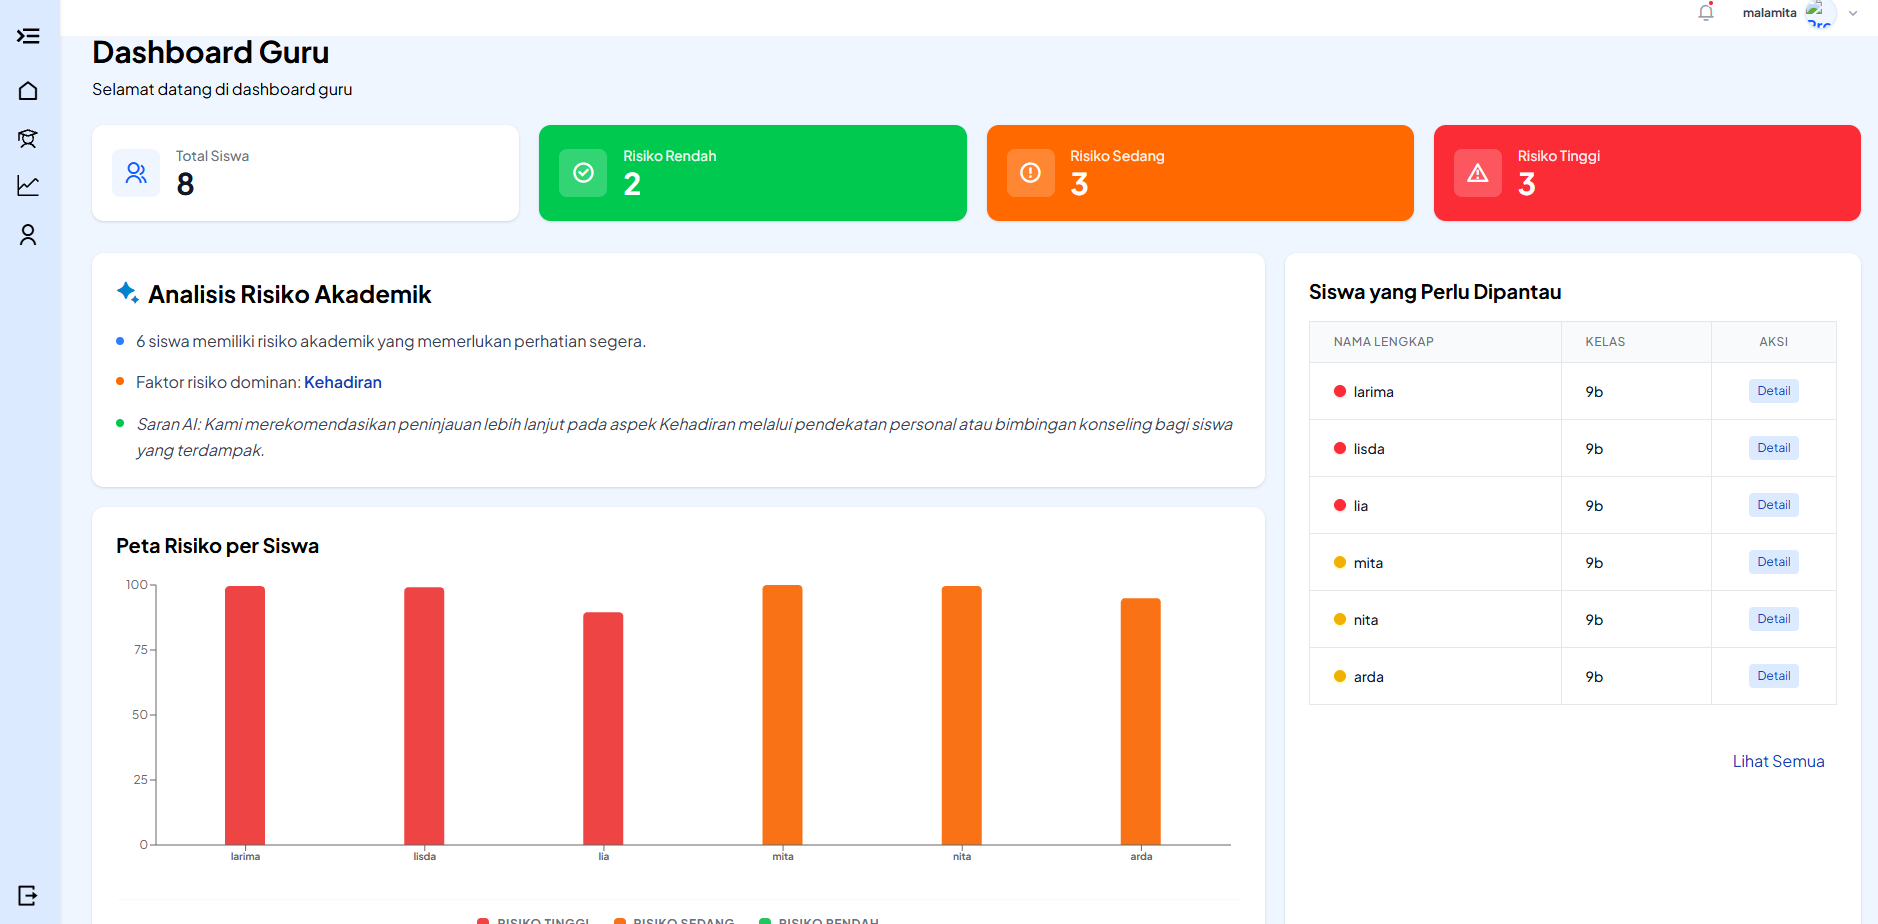
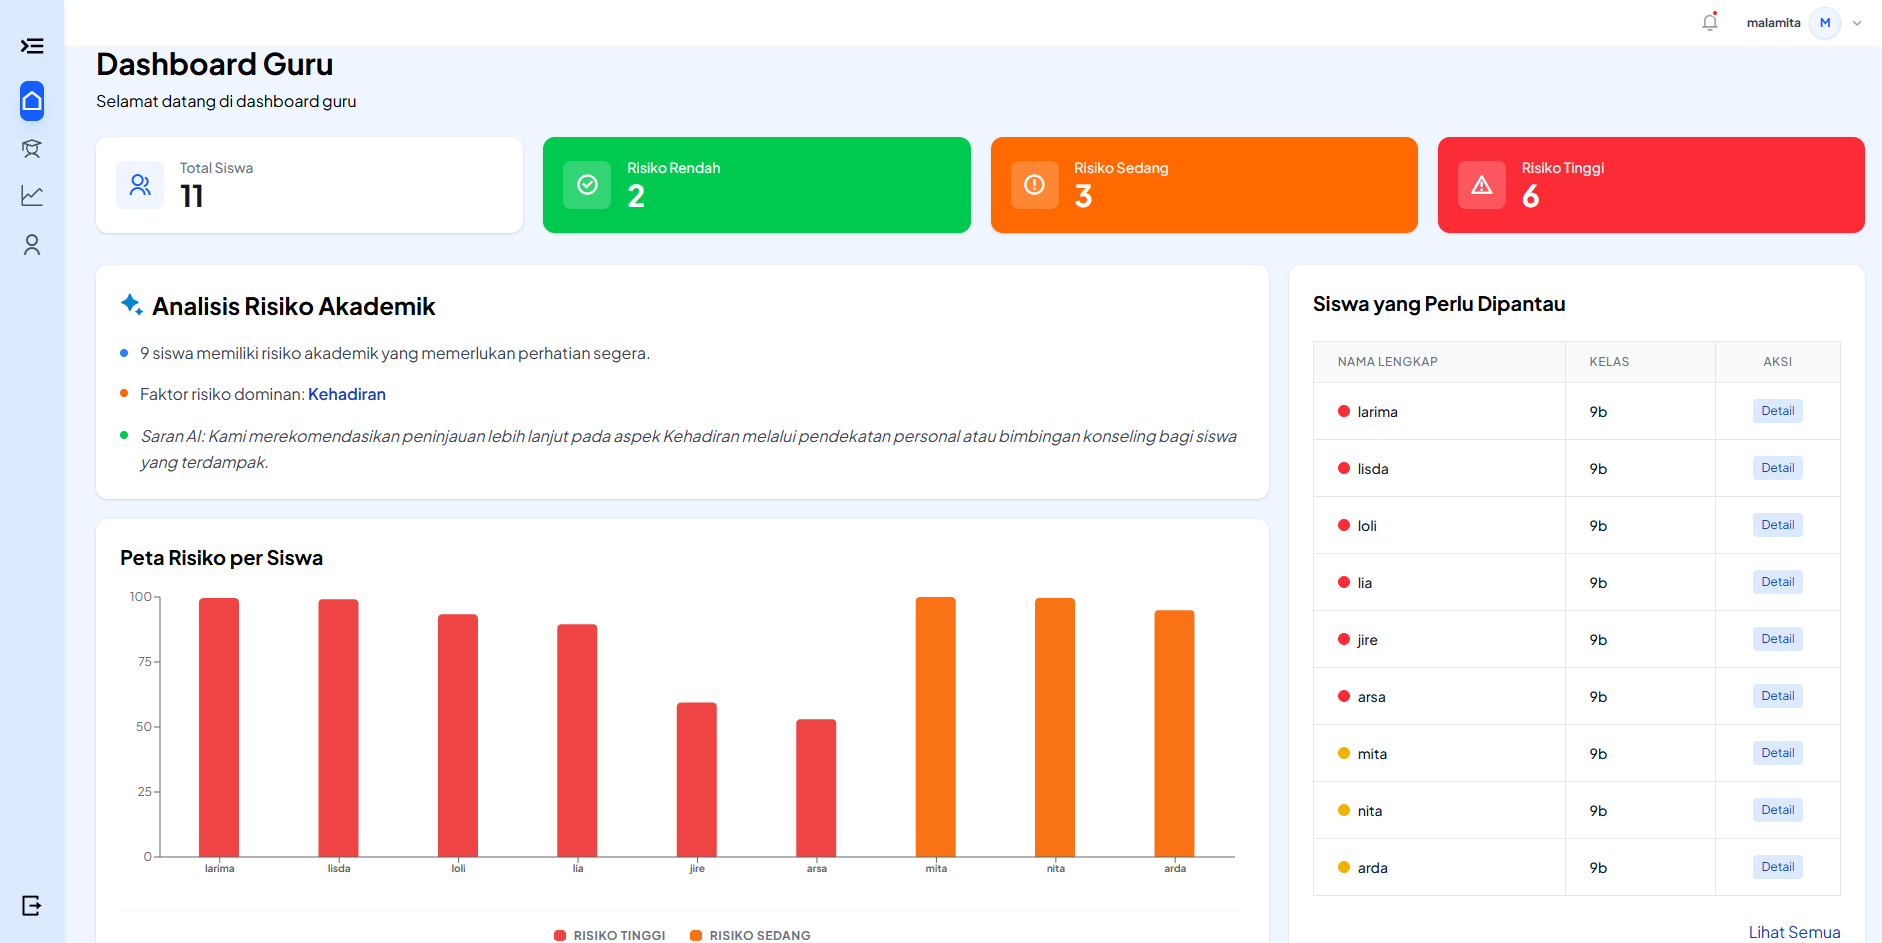
memperbaiki foto dashboard yang kepotong dan memperbaiki judul edupredict

diff --git a/frontend/src/pages/DashboardGuruPage.jsx b/frontend/src/pages/DashboardGuruPage.jsx
@@ -127,7 +127,7 @@ function DashboardGuruPage() {
     return (
         <div className="flex min-h-screen bg-blue-50">
             <Sidebar open={open} setOpen={setOpen} />
-            <div className={`flex-1 transition-all duration-500 ${open ? 'md:ml-64' : 'md:ml-16'} min-h-screen flex flex-col`}>
+            <div className={`flex-1 transition-all duration-500 ${open ? 'md:ml-64' : 'md:ml-16'} min-h-screen flex flex-col bg-blue-50`}>
                 <TopBar />
                 <div className="p-3 sm:p-6 md:p-8 pb-20 md:pb-8">
                 <h1 className="md:block text-3xl font-bold">Dashboard Guru</h1>
@@ -170,21 +170,16 @@ function DashboardGuruPage() {
                         type="tinggi"
                     />
                 </div>
-                <div className="grid grid-cols-1 lg:grid-cols-3 gap-5 mt-8">
-                    <div className="lg:col-span-2 space-y-5">
-                         <InsightAI 
-                            ringkasan={data.ringkasan} 
-                            siswaBerisiko={data.siswa_berisiko} 
-                        />
-                        <GrafikRisiko data={data.tren || []} />
-                    </div>
-                    <div className="lg:col-span-1 h-full flex flex-col min-w-0">
-                        <DaftarSiswa 
-                            className="h-full w-full overflow-x-auto" 
-                            isDashboard={true} 
-                            dataSiswa={data.siswa_berisiko} 
-                        />
-                    </div>
+                <div className="mt-8 space-y-8">
+                    <InsightAI 
+                        ringkasan={data.ringkasan} 
+                        siswaBerisiko={data.siswa_berisiko} 
+                    />
+                    <GrafikRisiko data={data.tren || []} />
+                    <DaftarSiswa 
+                        isDashboard={true} 
+                        dataSiswa={data.siswa_berisiko} 
+                    />
                 </div>
                     </>
                 )}

diff --git a/frontend/src/components/Navbar.jsx b/frontend/src/components/Navbar.jsx
@@ -81,7 +81,7 @@ function Navbar() {
                 <div className="navbar-box flex items-center justify-between py-0">
                     <div className="logo-box flex items-center gap-3 cursor-pointer" onClick={() => scrollTo('beranda')}>
                         <img src={logoEdupredict} alt="logo" className="w-16 h-16 object-contain flex-shrink-0" />
-                        <h1 className="text-2xl font-bold text-blue-900">Edu Predict</h1>
+                        <h1 className="text-2xl font-bold bg-gradient-to-r from-blue-800 to-blue-500 bg-clip-text text-transparent leading-none">EduPredict <span className="text-xl">AI</span></h1>
                     </div>
                     <div className={`Nav-items flex lg:gap-12 gap-8 absolute md:static left-1/2 -translate-x-1/2 md:left-0 md:-translate-x-0 flex-col md:flex-row w-full text-center ${menuActive ? "top-16 opacity-100" : "-top-72 opacity-0"} md:w-auto py-10 md:py-0 transition-all md:transition-none bg-blue-100 md:opacity-100 items-center`}>
                         <button onClick={() => scrollTo('beranda')} className={getNavClass('beranda')}>Beranda</button>

diff --git a/frontend/src/components/Sidebar.jsx b/frontend/src/components/Sidebar.jsx
@@ -37,7 +37,7 @@ function Sidebar({ open, setOpen }) {
             <div className={`flex items-center mt-8 ${open ? 'justify-between px-5' : 'justify-center'}`}>
                 <div className={`flex items-center gap-2 transition-all duration-300 ${!open && 'hidden'}`}>
                     <img src={logoEdupredict} alt="logo" className="w-12 h-12 object-contain flex-shrink-0" />
-                    <h1 className="text-2xl font-bold text-blue-900">EduPredict</h1>
+                    <h1 className="text-base font-bold bg-gradient-to-r from-blue-800 to-blue-500 bg-clip-text text-transparent leading-none">EduPredict <span className="text-sm">AI</span></h1>
                 </div>
                 <MdMenuOpen size={30} className={`cursor-pointer transition-transform duration-300 ${!open && 'rotate-180'}`} onClick={() => setOpen(!open)}/>
             </div>

diff --git a/frontend/src/components/LoginSiswaInput.jsx b/frontend/src/components/LoginSiswaInput.jsx
@@ -8,7 +8,7 @@ function LoginSiswaInput({ NISN, errors, apiError, apiSuccess, isLoading, onNISN
         <div className="mx-auto w-full max-w-xl my-10 px-6 py-10 sm:px-8 bg-white rounded-3xl border-2 border-gray-100 shadow-lg">
             <div className="flex items-center gap-3">
                 <Link to="/"><img src={logoEdupredict} alt="logo" className="w-16 h-16 object-contain flex-shrink-0" /> </Link> 
-                <h1 className="text-3xl font-semibold text-blue-800">EduPredict</h1>
+                <h1 className="text-3xl font-bold bg-gradient-to-r from-blue-800 to-blue-500 bg-clip-text text-transparent leading-none">EduPredict <span className="text-2xl">AI</span></h1>
             </div>
             <div className="mt-4 flex p-2 font-medium text-blue-800 bg-blue-100 w-fit px-4 rounded-3xl gap-2">
             <i className="ri-user-line"></i>

diff --git a/frontend/src/components/RegistrasiInput.jsx b/frontend/src/components/RegistrasiInput.jsx
@@ -26,7 +26,7 @@ function RegistrasiInput({
         <div className="mx-auto w-full max-w-2xl my-10 px-6 py-10 sm:px-8 bg-white rounded-3xl border-2 border-gray-100 shadow-lg">
             <div className="flex items-center gap-3">
                 <Link to="/"><img src={logoEdupredict} alt="logo" className="w-16 h-16 object-contain flex-shrink-0" /></Link>
-                <h1 className="text-3xl font-semibold text-blue-800">EduPredict</h1>
+                <h1 className="text-3xl font-bold bg-gradient-to-r from-blue-800 to-blue-500 bg-clip-text text-transparent leading-none">EduPredict <span className="text-2xl">AI</span></h1>
             </div>
             <div className="mt-4 inline-flex p-2 font-medium text-blue-800 bg-blue-100 px-4 rounded-3xl gap-2">
                 <i className="ri-computer-line"></i>

diff --git a/frontend/src/pages/DashboardSiswaPage.jsx b/frontend/src/pages/DashboardSiswaPage.jsx
@@ -156,7 +156,7 @@ function DashboardSiswaPage() {
             <nav className="bg-white border-b border-blue-100 p-4 px-6 sm:px-12 flex justify-between items-center sticky top-0 z-50 print:hidden">
                 <div className="flex items-center gap-3">
                     <img src={logoEdupredict} alt="logo" className="w-10 h-10 sm:w-16 sm:h-16 object-contain flex-shrink-0" />
-                    <h1 className="text-lg sm:text-2xl font-black text-blue-900 tracking-tight">EduPredict</h1>
+                    <h1 className="text-base font-bold bg-gradient-to-r from-blue-800 to-blue-500 bg-clip-text text-transparent leading-none">EduPredict <span className="text-sm">AI</span></h1>
                 </div>
                 <div className="flex items-center gap-3">
                     {hasPrediksi && (

diff --git a/frontend/src/pages/HomePage.jsx b/frontend/src/pages/HomePage.jsx
@@ -84,7 +84,7 @@ function HomePage() {
                                     <div className="w-2 h-2 rounded-full bg-amber-500"></div>
                                     <div className="w-2 h-2 rounded-full bg-green-500"></div>
                                 </div>
-                                <img src={guruPreview} alt="Dashboard Guru" className="w-full aspect-video object-cover object-top block cursor-pointer" />
+                                <img src={guruPreview} alt="Dashboard Guru" className="w-full aspect-video object-contain object-center block cursor-pointer" />
                             </div>
                             <div className="mt-8 text-center md:text-left">
                                 <h3 className="text-2xl font-bold text-blue-900">Dashboard Guru</h3>

diff --git a/frontend/src/components/Footer.jsx b/frontend/src/components/Footer.jsx
@@ -10,7 +10,7 @@ function Footer() {
                     <div className="flex-1 max-w-sm">
                         <div className='mb-2 flex items-center gap-3'>
                             <img src={logoEdupredict} alt="logo" className="w-12 h-12 object-contain" />
-                            <h2 className='text-2xl font-bold tracking-tight'>EduPredict</h2>
+                            <h2 className='text-2xl font-bold tracking-tight'>EduPredict <span className="text-xl text-white">AI</span></h2>
                         </div>
                         <p className='text-sm max-w-xs text-blue-100 leading-relaxed'>
                             Sistem cerdas berbasis AI yang dirancang untuk membantu tenaga pendidik dalam mendeteksi risiko akademik siswa secara proaktif dan akurat.

diff --git a/frontend/src/components/LoginGuruInput.jsx b/frontend/src/components/LoginGuruInput.jsx
@@ -11,7 +11,7 @@ function LoginGuruInput({ email, password, errors, apiError, isLoading, remember
             {/* logo edupredict */}
             <div className="flex items-center gap-3">
                 <Link to="/"> <img src={logoEdupredict} alt="logo" className="w-16 h-16 object-contain flex-shrink-0" /> </Link> 
-                <h1 className="text-3xl font-semibold text-blue-800">EduPredict</h1>
+                <h1 className="text-3xl font-bold bg-gradient-to-r from-blue-800 to-blue-500 bg-clip-text text-transparent leading-none">EduPredict <span className="text-2xl">AI</span></h1>
             </div>
             {/* logo edupredict */}
 

diff --git a/frontend/src/components/InsightAI.jsx b/frontend/src/components/InsightAI.jsx
@@ -61,7 +61,7 @@ function InsightAI({ ringkasan, siswaBerisiko }) {
       </div>
       <div className="mt-5 space-y-4">
         <div className="flex items-start gap-3">
-          <div className="w-2 h-2 mt-2 rounded-full bg-blue-500 flex-shrink-0"></div>
+          <div className="w-2 h-2 mt-2 rounded-full bg-red-500 flex-shrink-0"></div>
           <p className="text-gray-700">
             {totalAtRisk > 0
               ? `${totalAtRisk} siswa memiliki risiko akademik yang memerlukan perhatian segera.`

diff --git a/frontend/src/pages/LupaPasswordPage.jsx b/frontend/src/pages/LupaPasswordPage.jsx
@@ -125,7 +125,7 @@ function LupaPasswordPage() {
               className="w-16 h-16 object-contain flex-shrink-0"
             />
           </Link>
-          <h1 className="text-3xl font-semibold text-blue-800">EduPredict</h1>
+          <h1 className="text-3xl font-bold bg-gradient-to-r from-blue-800 to-blue-500 bg-clip-text text-transparent leading-none">EduPredict <span className="text-2xl">AI</span></h1>
         </div>
 
         <h1 className="text-3xl sm:text-4xl font-semibold mt-4">

diff --git a/frontend/src/pages/TambahSiswaPage.jsx b/frontend/src/pages/TambahSiswaPage.jsx
@@ -369,7 +369,7 @@ function TambahSiswaPage() {
               alt="logo"
               className="w-16 h-16 object-contain flex-shrink-0"
             />
-            <h1 className="text-2xl font-bold text-blue-900">EduPredict</h1>
+            <h1 className="text-base font-bold bg-gradient-to-r from-blue-800 to-blue-500 bg-clip-text text-transparent leading-none">EduPredict <span className="text-sm">AI</span></h1>
           </div>
         </div>
       </div>
